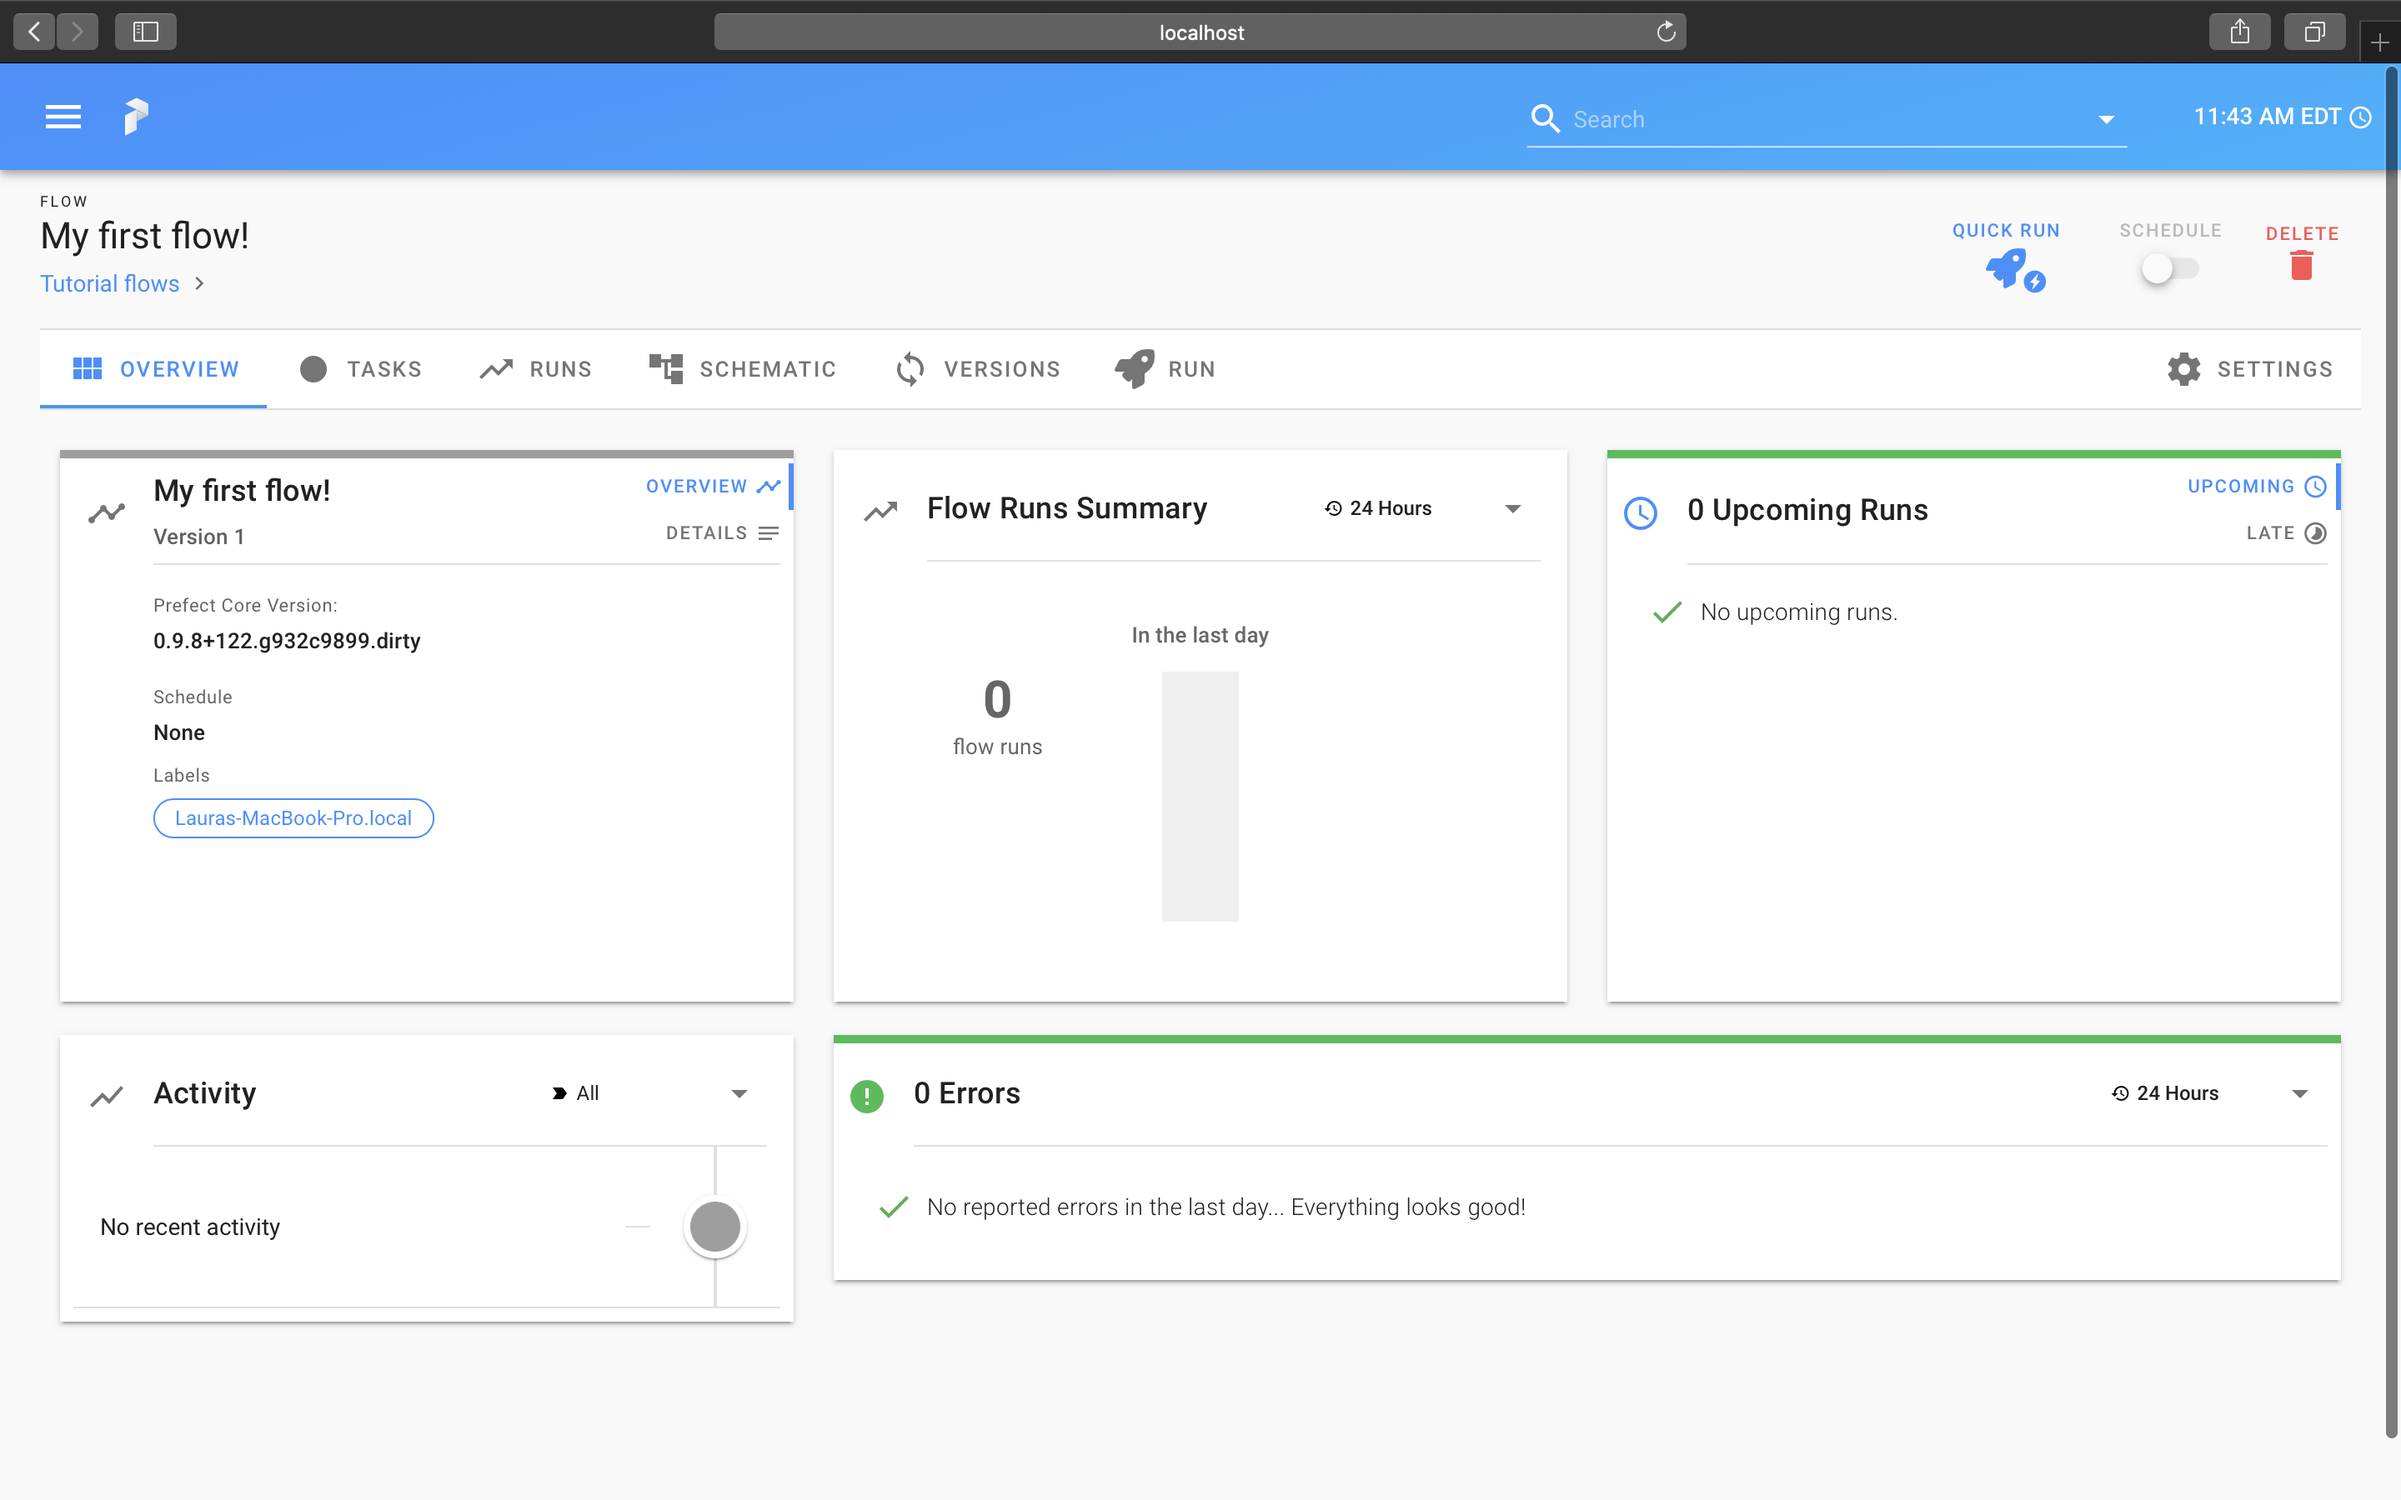
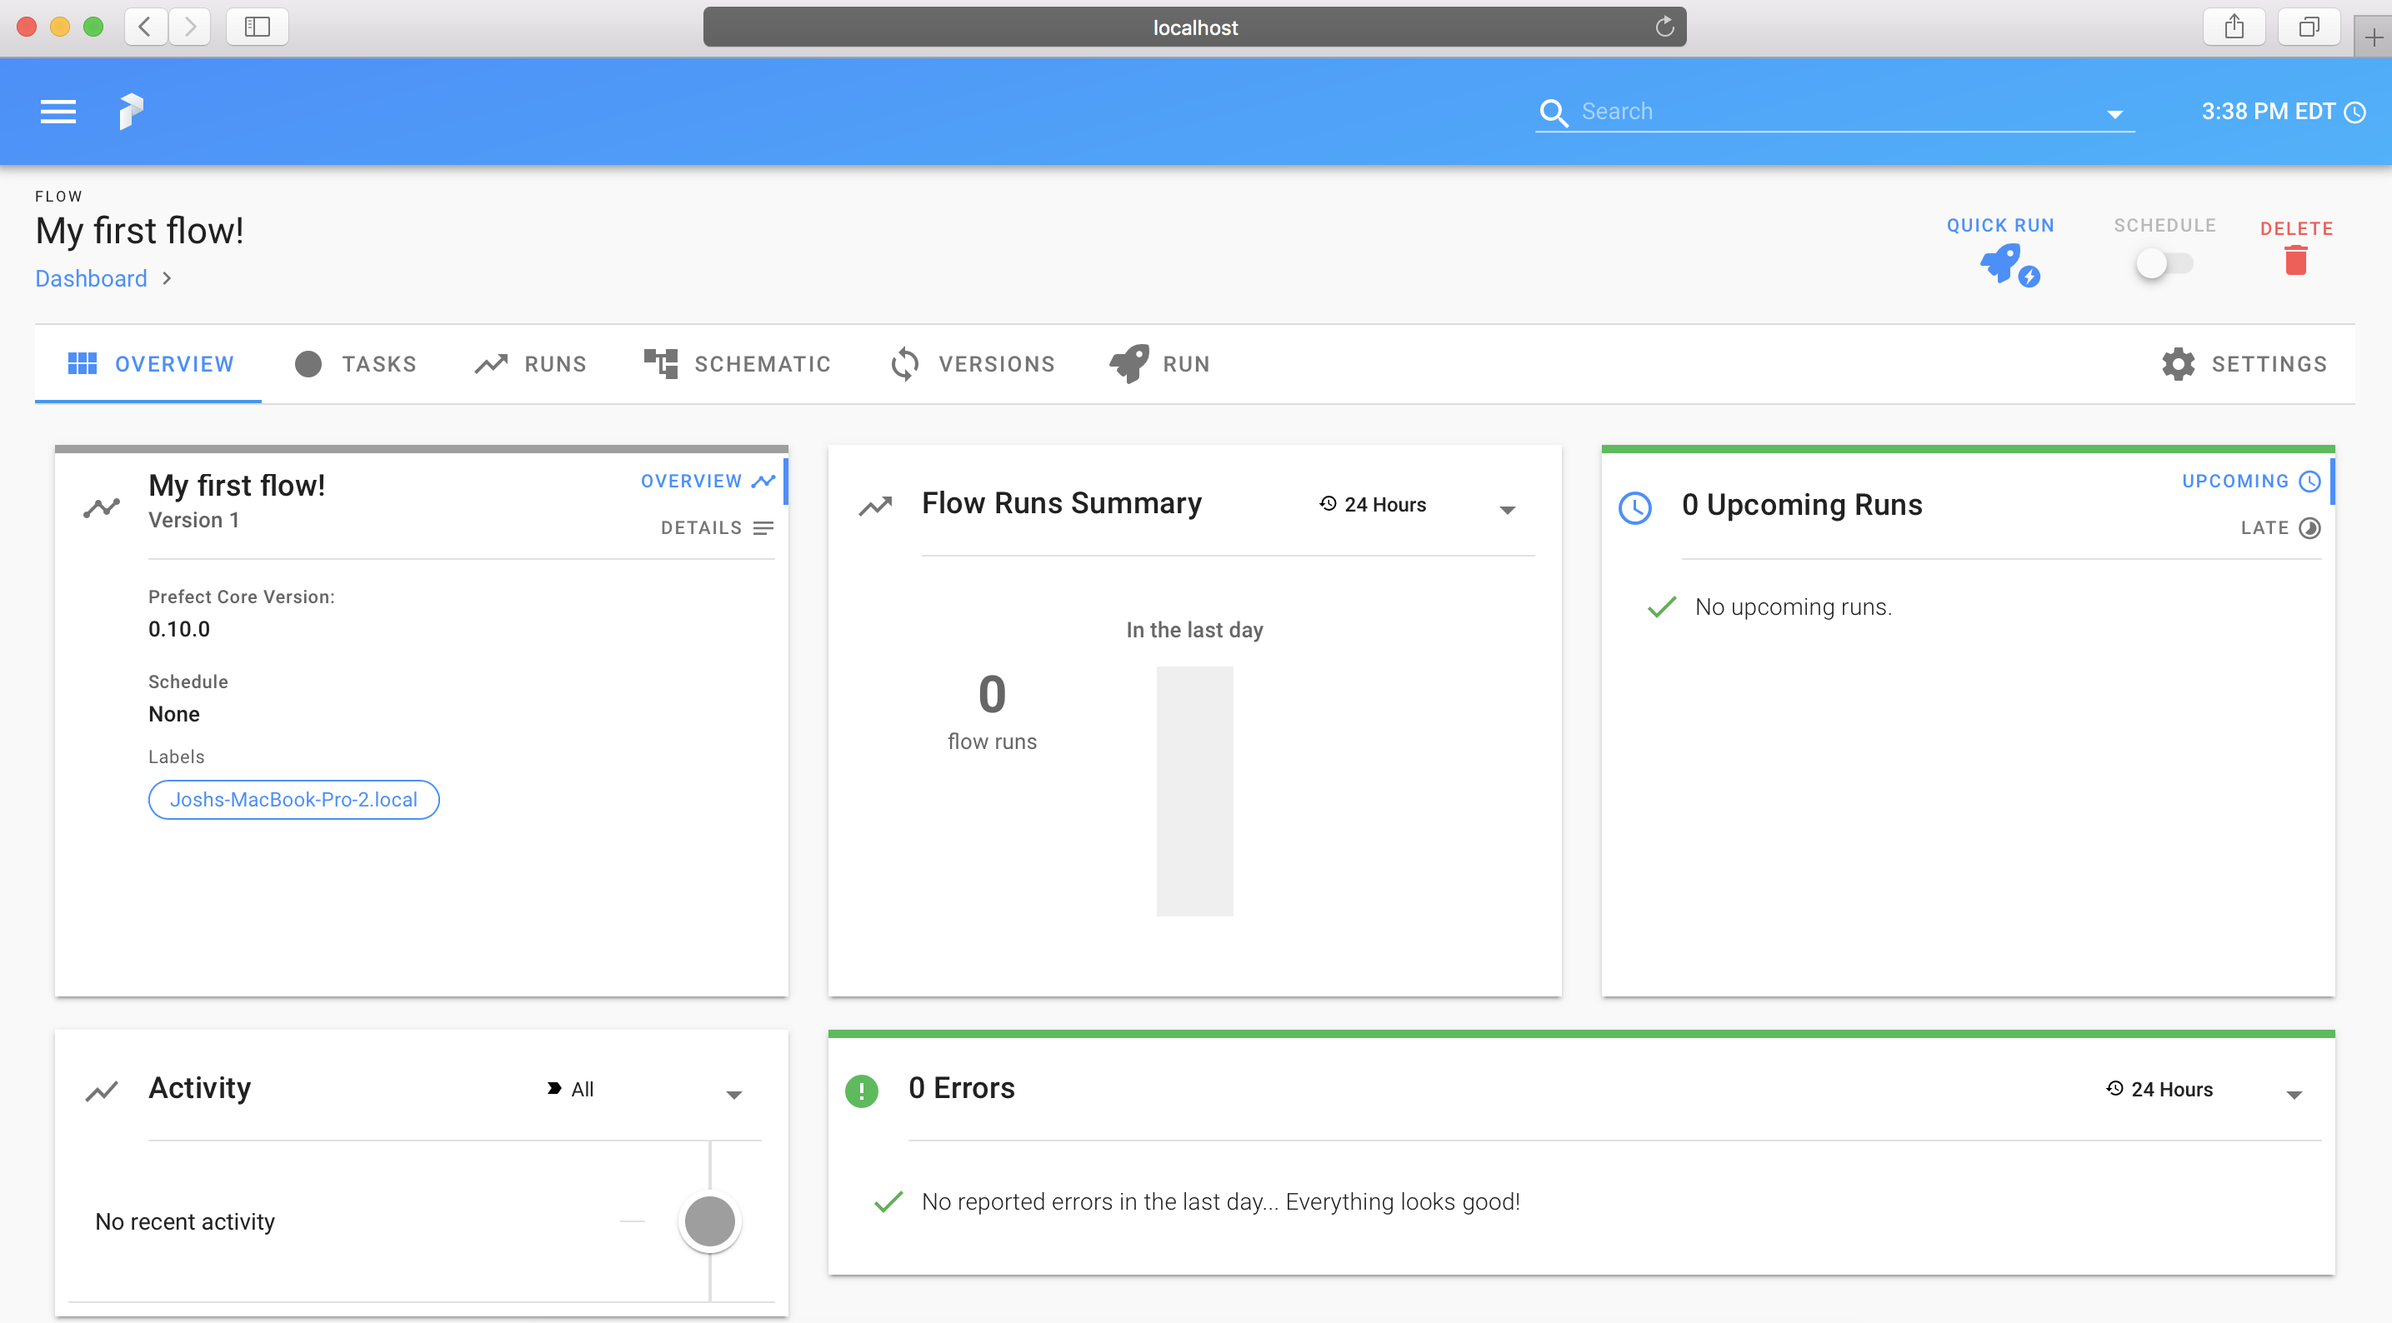
Update first steps doc and screenshots

diff --git a/docs/core/getting_started/first-steps.md b/docs/core/getting_started/first-steps.md
@@ -191,11 +191,10 @@ After [starting and configuring Core's server](installation.md#configuring-prefe
 [Register](/cloud/concepts/flows.md#registration) any of your flows; they will register with your local backend:
 
 ```python
->>> client.create_project("Tutorial flows")
->>> flow.register("Tutorial flows")
+>>> flow.register()
 Flow: http://localhost:8080/flow/796f7ad4-26c8-4e5d-bab1-dc687691da88
 ```
-You can use the URL returned from the `register()` call to navigate directly to the flow in your Prefect Server UI:
+You can use the URL returned from the `register()` call to navigate directly to the flow in your Prefect server's UI:
 
 ![](/cloud/server/first-flow-registered-server.png)
 
@@ -208,16 +207,8 @@ prefect agent start
 And then trigger your flow from the UI using the ["Run" button](/cloud/ui/flow.md#run)! You will see the agent pick up your work:
 
 ```
-[2020-03-27 15:47:47,791] DEBUG - agent | Found flow runs ['2bab9807-ef97-4902-b03f-afa68b3ad9bf']
-[2020-03-27 15:47:47,792] DEBUG - agent | Querying flow run metadata
-[2020-03-27 15:47:47,840] INFO - agent | Found 1 flow run(s) to submit for execution.
-[2020-03-27 15:47:47,841] DEBUG - agent | Updating states for flow run 2bab9807-ef97-4902-b03f-afa68b3ad9bf
-[2020-03-27 15:47:47,844] DEBUG - agent | Flow run 2bab9807-ef97-4902-b03f-afa68b3ad9bf is in a Scheduled state, updating to Subm
-itted
-[2020-03-27 15:47:47,844] DEBUG - agent | Next query for flow runs in 0.25 seconds
-[2020-03-27 15:47:47,893] INFO - agent | Deploying flow run 2bab9807-ef97-4902-b03f-afa68b3ad9bf
-[2020-03-27 15:47:47,897] DEBUG - agent | Submitted flow run 2bab9807-ef97-4902-b03f-afa68b3ad9bf to process PID 17260
-[2020-03-27 15:47:47,927] DEBUG - agent | Completed flow run submission (id: 2bab9807-ef97-4902-b03f-afa68b3ad9bf)
+[2020-03-28 19:40:49,985] INFO - agent | Found 1 flow run(s) to submit for execution.
+[2020-03-28 19:40:50,021] INFO - agent | Deploying flow run 86f3c550-34d4-4f1a-945b-803eb20ca36f
 ```
 
 And the UI will be updated with the state of the flow run:

diff --git a/docs/orchestration/concepts/flows.md b/docs/orchestration/concepts/flows.md
@@ -9,8 +9,17 @@ Flows can be registered with the Prefect API for scheduling and execution, as we
 To register a flow from Prefect Core, use its `register()` method:
 
 ```python
-flow.register(project_name="<a project name>")
+flow.register()
 ```
+
+:::warning Projects <Badge text="Cloud"/>
+Prefect Cloud allows users to organize flows into projects.
+
+```python
+flow.register(project_name="<project name>")
+```
+
+:::
 
 Note that this assumes that if you are using Prefect Cloud that you have already [authenticated](../tutorial/configure.html#log-in-to-prefect-cloud). For more information on Flow registration see [here](../tutorial/first.html#register-flow-with-prefect-cloud).
 
